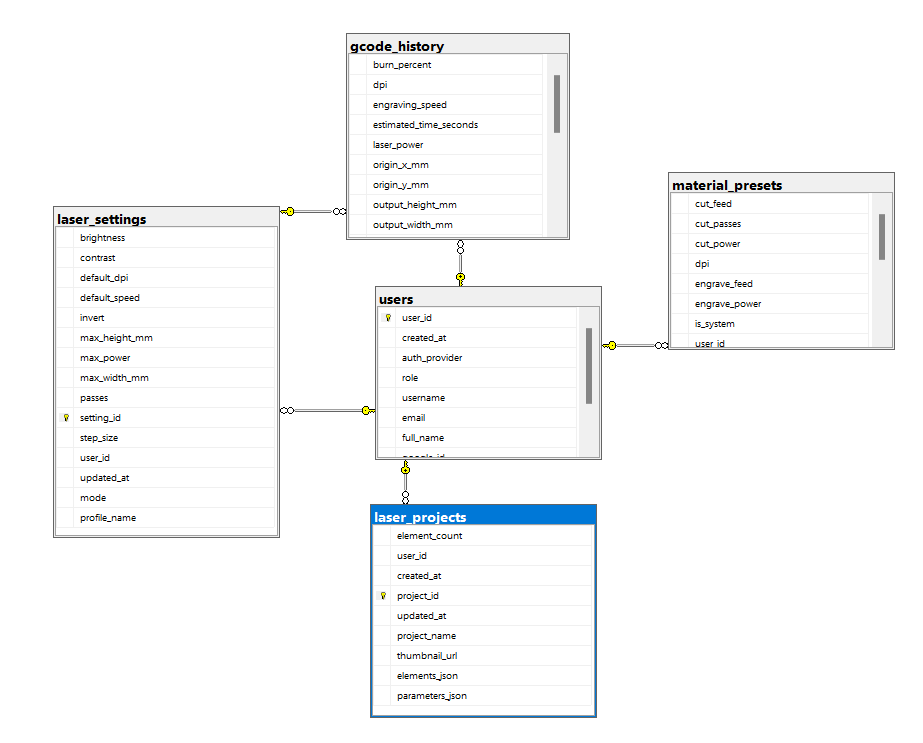
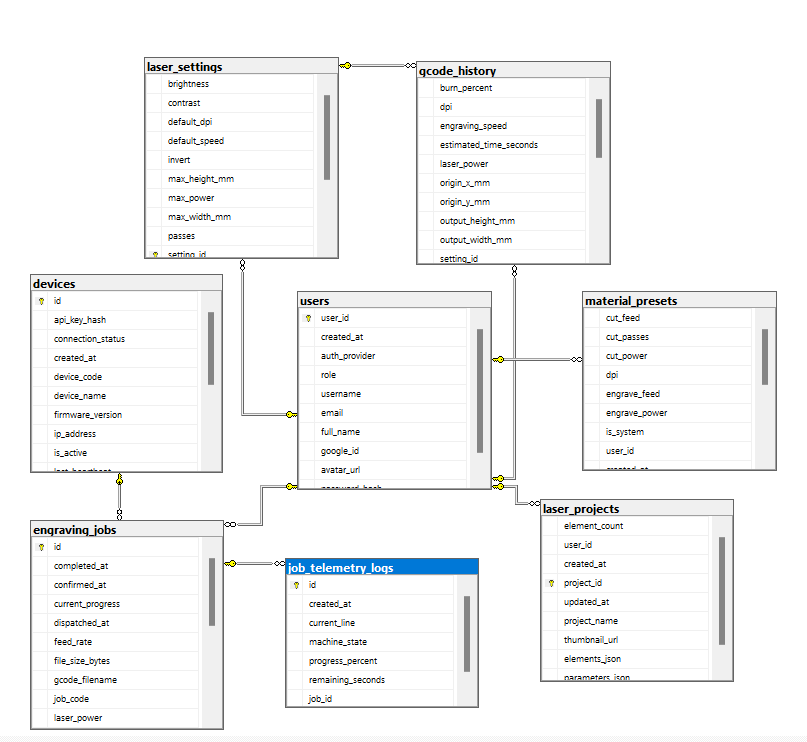
erd

diff --git a/README.md b/README.md
@@ -37,12 +37,12 @@ Hệ thống cơ sở dữ liệu được thiết kế chuẩn hóa trên **Mic
 
 | Tên Bảng (Table) | Khóa Chính (PK) | Quan Hệ (FK) | Chức Năng Chính |
 | :--- | :--- | :--- | :--- |
-| `users` | `user_id` (UUID) | — | Quản lý tài khoản người dùng, mã băm mật khẩu BCrypt, vai trò phân quyền (`ROLE_USER`, `ROLE_ADMIN`, `ROLE_OPERATOR`), nhà cung cấp xác thực (`LOCAL`, `GOOGLE`). |
-| `devices` | `device_id` (BIGINT) | — | Quản lý trạm máy khắc laser IoT (Makerbase MKS DLC32 V2.1), mã token phần cứng băm BCrypt, địa chỉ IP mạng nội bộ, RSSI sóng Wi-Fi, trạng thái (`ONLINE`, `BUSY`, `OFFLINE`) và cấu hình phần cứng v2 (kích thước bàn, tốc độ tối đa, PWM tối đa). |
-| `engraving_jobs` | `job_id` (BIGINT) | `device_id` $\rightarrow$ `devices` | Quản lý lệnh điều phối gia công, hàng đợi FIFO (`QUEUED`), trạng thái gia công 2 bước (`QUEUED` $\rightarrow$ `DISPATCHED` $\rightarrow$ `PRINTING` $\rightarrow$ `COMPLETED` / `CANCELLED` / `FAILED`), mã băm SHA-256 đối soát toàn vẹn, kích thước phôi và thông số F/S. |
-| `job_telemetry_logs` | `log_id` (BIGINT) | `job_id` $\rightarrow$ `engraving_jobs` | Lưu vết telemetry tiến độ chi tiết theo thời gian thực: phần trăm tiến độ, dòng lệnh hiện tại, thời gian chạy, tọa độ X/Y/Z và nhiệt độ đầu khắc. |
+| `users` | `user_id` (UUID) | — | Bảng trung tâm quản lý tài khoản người dùng, mã băm mật khẩu BCrypt, vai trò phân quyền (`ROLE_USER`, `ROLE_ADMIN`, `ROLE_OPERATOR`), nhà cung cấp xác thực (`LOCAL`, `GOOGLE`). |
+| `devices` | `id` (BIGINT) | — | Quản lý trạm máy khắc laser IoT (Makerbase MKS DLC32 V2.1), mã token phần cứng băm BCrypt, địa chỉ IP mạng nội bộ, RSSI sóng Wi-Fi, trạng thái (`ONLINE`, `BUSY`, `OFFLINE`) và cấu hình phần cứng v2 (kích thước bàn, tốc độ tối đa, PWM tối đa). |
+| `engraving_jobs` | `id` (BIGINT) | `user_id` $\rightarrow$ `users`<br>`device_id` $\rightarrow$ `devices` | Quản lý lệnh điều phối gia công, hàng đợi FIFO (`QUEUED`), trạng thái gia công 2 bước (`QUEUED` $\rightarrow$ `DISPATCHED` $\rightarrow$ `PRINTING` $\rightarrow$ `COMPLETED` / `CANCELLED` / `FAILED`), mã băm SHA-256 đối soát toàn vẹn, kích thước phôi và thông số F/S. |
+| `job_telemetry_logs` | `id` (BIGINT) | `job_id` $\rightarrow$ `engraving_jobs` | Lưu vết telemetry tiến độ chi tiết theo thời gian thực: phần trăm tiến độ, dòng lệnh hiện tại, trạng thái máy, thời gian ước tính còn lại. |
 | `laser_projects` | `project_id` (BIGINT) | `user_id` $\rightarrow$ `users` | Lưu trữ dữ liệu thiết kế bàn khắc 2D (khổ $300 \times 200\text{ mm}$), chuỗi JSON danh sách đối tượng (`elements_json`) và cấu hình tham số (`parameters_json`). |
-| `gcode_history` | `history_id` (BIGINT) | `user_id` $\rightarrow$ `users` *(nullable)* | Quản lý lịch sử tạo mã và gia công: tổng số dòng lệnh, tốc độ cắt, công suất phát PWM, DPI, kích thước thực tế và liên kết file `.nc` vật lý. |
+| `gcode_history` | `history_id` (BIGINT) | `user_id` $\rightarrow$ `users` *(nullable)*<br>`setting_id` $\rightarrow$ `laser_settings` *(nullable)* | Quản lý lịch sử tạo mã và gia công: tổng số dòng lệnh, tốc độ cắt, công suất phát PWM, DPI, kích thước thực tế và liên kết file `.nc` vật lý. |
 | `material_presets` | `preset_id` (BIGINT) | `user_id` $\rightarrow$ `users` *(nullable)* | Thư viện vật liệu mẫu hệ thống (`is_system = true`, 6 loại cơ bản) và vật liệu tùy chỉnh do người dùng tự thiết lập. |
 | `laser_settings` | `setting_id` (BIGINT) | `user_id` $\rightarrow$ `users` *(nullable)* | Cấu hình tham số máy khắc mặc định: tốc độ gia công, gia tốc động cơ, giới hạn an toàn công suất PWM, khổ bàn làm việc. |
 
